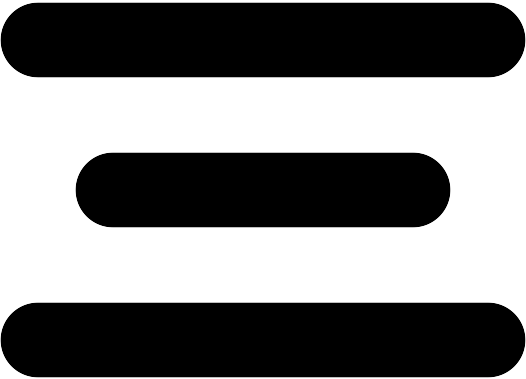
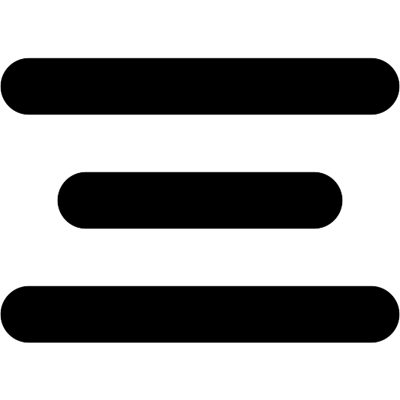
updated menu images

diff --git a/script.js b/script.js
@@ -1,5 +1,15 @@
-document.querySelector('.menu-toggle').addEventListener('mouseover', menuToggle);
+let menuOpen = false;
+document.querySelector('.menu-toggle').addEventListener('click', menuToggle);
 
 function menuToggle() {
-    // Add your code here to handle the menu toggle functionality
+    let menuToggleImg = document.getElementById('menu-toggle');
+    if (!menuOpen) {
+        menuToggleImg.src = "/images/noun-close-crop.png";
+        menuToggleImg.alt = "burger menu close";
+        menuOpen = true;
+    } else {
+        menuToggleImg.src = "/images/noun-burger-menu-crop.png";
+        menuToggleImg.alt = "burger menu open";
+        menuOpen = false;
+    }
 }

diff --git a/index.html b/index.html
@@ -22,7 +22,7 @@
             </div>  
         </nav>
         <menu class="burger-menu" tabindex="0">
-        <li class="menu-toggle"><a href="#"><img src="/images/noun-close-crop.png" alt="burger menu open" width="40"></a></li>
+        <li class="menu-toggle"><a href="#"><img id="menu-toggle" src="/images/noun-burger-menu-crop.png" alt="burger menu open" width="40"></a></li>
         <li class="nav-item"><a href="index.html">Home</a></li>
         <li class="nav-item"><a href="#">Browse Alien Lifeforms</a></li>
         <li class="nav-item"><a href="#">How to Submit an Update</a></li>

diff --git a/styles.css b/styles.css
@@ -79,6 +79,7 @@ nav {
 
 menu {
     list-style-type: none;
+    background-color: blue;
 }
 
 menu li {
@@ -91,6 +92,10 @@ menu li.nav-item {
     display: none;
 }
 
+li.menu-toggle a {
+    padding: 0;
+    height: 4rem;
+}
 
 .logo {
     position: absolute;
